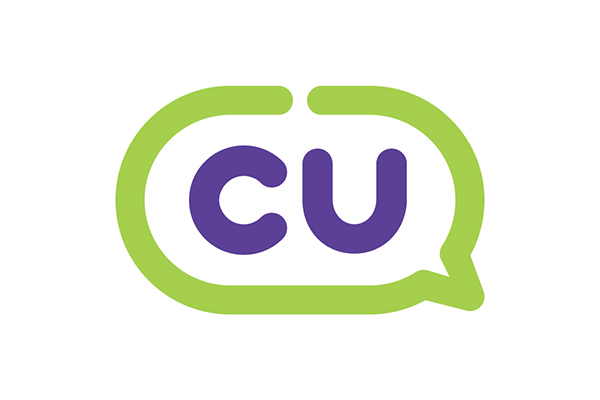
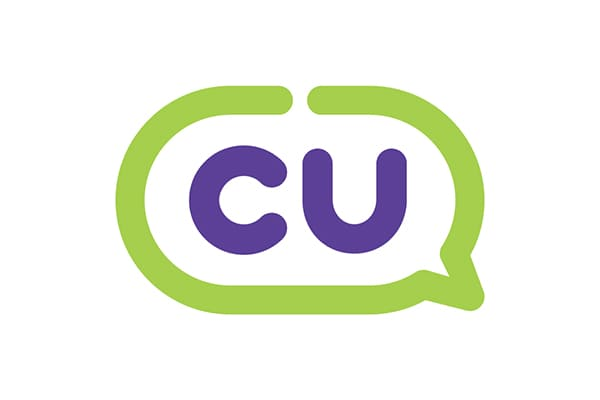
[공통] - 이미지 용량 줄이기 - 환전소 삭제
[서브페이지]
- 데이터 : 주소 삭제 / 대표메뉴,호텔과의 거리 추가
- 식당 10%할인 표기 및 우선순위 정렬
- 이미지 없는경우 디폴트 이미지 대체

diff --git a/src/data.js b/src/data.js
@@ -13,7 +13,6 @@ export const pageData = [
         title: '온센',
         openingHours: '11:00-20:30',
         openingHoursMemo: '무휴',
-        address: '인천 중구 영종대로911',
         img: '',
         menu:"텐동",
         googleMaps: '',
@@ -22,6 +21,23 @@ export const pageData = [
         room:"",
         distance:"0m",
         memo:"",
+        sale:"",
+      },
+      {
+        filter:"restaurant",
+        id:0,
+        title: 'Test',
+        openingHours: '11:00-20:30',
+        openingHoursMemo: '무휴',
+        img: '',
+        menu:"대표음식",
+        googleMaps: '',
+        contact:"032-214-5100",
+        reservation:"",
+        room:"",
+        distance:"0m",
+        memo:"",
+        sale:"10%",
       },
       // 카페
       {
@@ -30,15 +46,15 @@ export const pageData = [
         title: '카페평상인',
         openingHours: '10:00-22:00',
         openingHoursMemo: '무휴',
-        address: '인천 중구 영종진광장로 39 오션테라스 카페 평상인',
         img: '',
-        menu:"아메리카노 5,500",
+        menu:"아메리카노",
         googleMaps: '',
         contact:"0507-1425-0079",
         reservation:"",
         room:"",
         distance:"2.9km",
         memo:"",
+        sale:"",
       },
       // 조식
       {
@@ -47,7 +63,6 @@ export const pageData = [
         title: '파리바게트영종현대',
         openingHours: '10:00-22:00',
         openingHoursMemo: '',
-        address: '인천 중구 하늘별빛로65번길 7-4(중산동) 현대프라자',
         img: '',
         menu:"",
         googleMaps: '',
@@ -56,6 +71,7 @@ export const pageData = [
         room:"",
         distance:"390m",
         memo:"",
+        sale:"",
       },
 
     ]
@@ -72,27 +88,24 @@ export const pageData = [
         title: 'CU영종블루오션점',
         openingHours: '01:00-24:00',
         openingHoursMemo: '',
-        address: '인천 중구 영종대로 911',
         img: '/img/convenience_store/cu.jpg',
-        googleMaps: '',
+        googleMaps: 'https://www.google.co.kr/maps/place/%EC%9D%B8%EC%B2%9C%EA%B4%91%EC%97%AD%EC%8B%9C+%EC%A4%91%EA%B5%AC+%EC%98%81%EC%A2%85%EB%8C%80%EB%A1%9C+911/data=!4m6!3m5!1s0x357b83ab00a398dd:0x7e57b063c649df02!8m2!3d37.4873526!4d126.5635199!16s%2Fg%2F11jz7sdtgm?entry=ttu',
       },
       {
           id:1,
           title: '미니스톱 영종웰메이드점',
           openingHours: '01:00-24:00',
           openingHoursMemo: '',
-          address: '인천 중구 하늘별빛로65번길 7-11',
           img: '/img/convenience_store/ministop.jpg',
-          googleMaps: '',
+          googleMaps: 'https://www.google.co.kr/maps/place/%EC%9D%B8%EC%B2%9C%EA%B4%91%EC%97%AD%EC%8B%9C+%EC%A4%91%EA%B5%AC+%ED%95%98%EB%8A%98%EB%B3%84%EB%B9%9B%EB%A1%9C65%EB%B2%88%EA%B8%B8+7-11/data=!3m1!4b1!4m6!3m5!1s0x357b83ab6c546a73:0xc8593b9c83c7fa53!8m2!3d37.4881418!4d126.5643488!16s%2Fg%2F11tjfgpnx8?entry=ttu',
       },
       {
           id:2,
           title: 'GS25 영종리베라점',
           openingHours: '01:00-24:00',
           openingHoursMemo: '',
-          address: '인천 중구 영종대로 881 1층 103호',
           img: '/img/convenience_store/gs.jpg',
-          googleMaps: '',
+          googleMaps: 'https://www.google.co.kr/maps/place/GS25%EC%98%81%EC%A2%85%EB%A6%AC%EB%B2%A0%EB%9D%BC%EC%A0%90/data=!3m1!4b1!4m6!3m5!1s0x357b8324efa557a3:0xf5e239135dc35957!8m2!3d37.4851796!4d126.5615557!16s%2Fg%2F11j8_tqcgd?entry=ttu',
       }
     ]
   },
@@ -108,7 +121,7 @@ export const pageData = [
           title: '하늘365약국',
           openingHours: '09:00-22:00',
           openingHoursMemo: '일요일 영업',
-          address: '인천 중구 하늘달빛로 84 1층 105호',
+
           img: '../img/pharmacy/p_0.jpg',
           googleMaps: 'https://www.google.co.kr/maps/place/%EC%9D%B8%EC%B2%9C%EA%B4%91%EC%97%AD%EC%8B%9C+%EC%A4%91%EA%B5%AC+%ED%95%98%EB%8A%98%EB%8B%AC%EB%B9%9B%EB%A1%9C+84/data=!3m1!4b1!4m6!3m5!1s0x357b83a9d542d405:0xb1ff593e13f04cfe!8m2!3d37.4867592!4d126.5581627!16s%2Fg%2F11sb7frj19?entry=ttu',
       },
@@ -117,7 +130,7 @@ export const pageData = [
           title: '미소약국',
           openingHours: '09:00-22:00',
           openingHoursMemo: '일요일 유동적 휴무',
-          address: '인천 중구 하늘별빛로65번길 11 해솔프라자 101호 미소약국',
+
           img: '../img/pharmacy/p_1.jpg',
           googleMaps: 'https://www.google.co.kr/maps/place/%ED%95%B4%EC%86%94%ED%94%84%EB%9D%BC%EC%9E%90/data=!3m1!4b1!4m6!3m5!1s0x357b976f38f7c457:0xcf8cd451e2546b98!8m2!3d37.4884843!4d126.5634308!16s%2Fg%2F11h58f9xh2?entry=ttu',
       },
@@ -126,7 +139,7 @@ export const pageData = [
           title: '영종올리브약국',
           openingHours: '09:00-20:00',
           openingHoursMemo: '일요일 휴무',
-          address: '인천 중구 하늘별빛로65번길 7-9',
+
           img: '../img/pharmacy/p_2.jpg',
           googleMaps: 'https://www.google.co.kr/maps/place/%EC%9D%B8%EC%B2%9C%EA%B4%91%EC%97%AD%EC%8B%9C+%EC%A4%91%EA%B5%AC+%ED%95%98%EB%8A%98%EB%B3%84%EB%B9%9B%EB%A1%9C65%EB%B2%88%EA%B8%B8+7-9/data=!3m1!4b1!4m6!3m5!1s0x357b83ab662580d1:0x70f71a9083524932!8m2!3d37.4884886!4d126.5646288!16s%2Fg%2F11sb7d91m5?entry=ttu',
       }
@@ -160,18 +173,24 @@ export const pageData = [
         title: '버블맨24 인천영종도점',
         openingHours: '00:00-24:00',
         openingHoursMemo: '',
-        address: '인천 중구 자연대로 28 101호 셀프빨래방',
         img: '/img/coin_laundry/l_0.jpg',
-        googleMaps: '',
+        googleMaps: 'https://www.google.co.kr/maps/place/%EC%9D%B8%EC%B2%9C%EA%B4%91%EC%97%AD%EC%8B%9C+%EC%A4%91%EA%B5%AC+%EC%9E%90%EC%97%B0%EB%8C%80%EB%A1%9C+28+101%ED%98%B8/data=!3m1!4b1!4m5!3m4!1s0x357b83abd14c779f:0x817c82e110abcb4f!8m2!3d37.4883172!4d126.5611399?entry=ttu',
       },
       {
           id:1,
           title: '화이트365 영종도점',
           openingHours: '00:00-24:00',
           openingHoursMemo: '',
-          address: '인천 중구 자연대로 37 스카이가든 1층 107호',
           img: '/img/coin_laundry/l_1.jpg',
-          googleMaps: '',
+          googleMaps: 'https://www.google.co.kr/maps/search/%EC%9D%B8%EC%B2%9C+%EC%A4%91%EA%B5%AC+%EC%9E%90%EC%97%B0%EB%8C%80%EB%A1%9C+37+%EC%8A%A4%EC%B9%B4%EC%9D%B4%EA%B0%80%EB%93%A0+1%EC%B8%B5+107%ED%98%B8/data=!3m1!4b1?entry=ttu',
+      },
+      {
+          id:1,
+          title: '크린토피아 코인워시365 인천영종스카이점',
+          openingHours: '00:00-24:00',
+          openingHoursMemo: '',
+          img: '',
+          googleMaps: 'https://www.google.co.kr/maps/place/%EC%9D%B8%EC%B2%9C%EA%B4%91%EC%97%AD%EC%8B%9C+%EC%A4%91%EA%B5%AC+%ED%95%98%EB%8A%98%EC%A4%91%EC%95%99%EB%A1%9C195%EB%B2%88%EA%B8%B8+14/data=!3m1!4b1!4m6!3m5!1s0x357b83abe0202a83:0xf058daee11fa80ba!8m2!3d37.4893272!4d126.5607988!16s%2Fg%2F11sb78dp_b?entry=ttu',
       },
     ]
   },  

diff --git a/src/layout/ListItem.jsx b/src/layout/ListItem.jsx
@@ -3,7 +3,28 @@ function ListItem(props){
     return(
         <div className="list_item row" data-filter={item.filter}>
             <div className="left">
-                <h4 className="title">{item.title}</h4>
+                <div className='flex'>
+                    <h4 className="title">{item.title}</h4>
+                    {
+                        item.sale ?
+                        <p className="sale">{item.sale} OFF</p>
+                        : null
+                    }
+                </div>
+                {
+                    item.menu ?
+                        <div className="menu flex">
+                            <img
+                                className="card_icon"
+                                src="/img/icons/menu_icon.png"
+                                alt="메뉴 아이콘"
+                                />
+                            <p className="text">
+                                {item.menu}
+                            </p>
+                        </div>
+                    : null
+                }     
                 <div className="opening_hour flex">
                     <img
                         className="card_icon"
@@ -28,17 +49,7 @@ function ListItem(props){
                             </p>
                         </div>
                     : null
-                }
-                <div className="address flex">
-                    <img
-                        className="card_icon"
-                        src="/img/icons/location_icon.png"
-                        alt="주소 아이콘"
-                        />
-                    <p className="text">
-                        {item.address}
-                    </p>
-                </div>
+                }                
                 {
                     item.contact ?
                         <div className="contact flex">
@@ -53,6 +64,16 @@ function ListItem(props){
                         </div>
                     : null
                 }
+                {/* <div className="address flex">
+                    <img
+                        className="card_icon"
+                        src="/img/icons/location_icon.png"
+                        alt="주소 아이콘"
+                        />
+                    <p className="text">
+                        {item.address}
+                    </p>
+                </div> */}
                 <a className="google_maps_btn" target="_blank" href={item.googleMaps}>
                     <img
                         src="/img/icons/google_maps_icon_circle.png"
@@ -69,7 +90,6 @@ function ListItem(props){
                     : <img src="/img/icons/no_img.png" alt="no img" /> 
                 }
                 </div>
-                <div className="main_menu"> {item.menu ? item.menu : ""}</div>
             </div>
         </div>      
     )

diff --git a/src/routes/SubPage.jsx b/src/routes/SubPage.jsx
@@ -3,7 +3,16 @@ import SubHeader from "../layout/SubHeader"
 
 function SubPage(props) {
     const item = props.item;
-    
+    if(item.url === 'restaurant'){
+        item.data.sort((a, b) => {
+            if (a.sale && !b.sale) {
+              return -1;
+            } else if (!a.sale && b.sale) {
+              return 1; 
+            }
+            return 0;
+        });
+    }
     function handleFilter(e){
         const filterBtn = document.querySelectorAll('.filter_btn');
         const listItem = document.querySelectorAll('.list_item');
@@ -44,7 +53,10 @@ function SubPage(props) {
             <div className="content_box list_item_box">
 
             {
-                item.url === 'restaurant' ? <TabMenu filterFunc={handleFilter}></TabMenu> : null
+                item.url === 'restaurant' ? <RestaurantTabMenu filterFunc={handleFilter}></RestaurantTabMenu> : null
+            }
+            {
+                item.url === 'hospital' ? <HospitalTabMenu filterFunc={handleFilter}></HospitalTabMenu> : null
             }
             {
                 item.data.map((item, idx) => (
@@ -58,13 +70,23 @@ function SubPage(props) {
         </>
     );
 }
-function TabMenu(props){
+function RestaurantTabMenu(props){
     return(
         <div className="filter_btn_box">
             <div data-filter="all" className="filter_btn active" onClick={props.filterFunc}>전체</div>
             <div data-filter="restaurant" className="filter_btn" onClick={props.filterFunc}>식당</div>
             <div data-filter="cafe" className="filter_btn" onClick={props.filterFunc}>카페</div>
             <div data-filter="breakfast" className="filter_btn" onClick={props.filterFunc}>조식</div>
+        </div>
+    )
+}
+function HospitalTabMenu(props){
+    return(
+        <div className="filter_btn_box">
+            <div data-filter="all" className="filter_btn active" onClick={props.filterFunc}>전체</div>
+            <div data-filter="internal_medicine" className="filter_btn" onClick={props.filterFunc}>내과</div>
+            <div data-filter="dentist" className="filter_btn" onClick={props.filterFunc}>치과</div>
+            <div data-filter="Ophthalmology" className="filter_btn" onClick={props.filterFunc}>안과</div>
         </div>
     )
 }

diff --git a/public/assets/sub_page.css b/public/assets/sub_page.css
@@ -53,13 +53,48 @@
 .list_item .title{
     font-size:26px;
     color: #2F6633;
-    margin-bottom: 16px;
+    margin-bottom: 8px;
 }
 .list_item[data-filter="cafe"] .title{
     color: #679600
 }
 .list_item[data-filter="breakfast"] .title{
     color: #dd7e00
+}
+.list_item .sale{
+    font-size: 14px;
+    margin-bottom: 8px;
+    background-color: #00968b;
+    color: white;
+    padding: 6px 10px;
+    margin-left: 10px;
+    border-radius: 5px;
+    position: relative;
+    font-weight: 600;
+}
+.list_item .sale::before{
+    content: "";
+    display: block;
+    position: absolute;
+    width: 8px;
+    height: 8px;
+    border-radius: 8px;
+    background-color: white;
+    top: 50%;
+    left: -5px;
+    transform: translateY(-50%);
+}
+.list_item .sale::after{
+    content: "";
+    display: block;
+    position: absolute;
+    width: 8px;
+    height: 8px;
+    border-radius: 8px;
+    background-color: white;
+    top: 50%;
+    right: -5px;
+    transform: translateY(-50%);
 }
 .list_item .card_icon{
     width: 32px;
@@ -117,9 +152,9 @@
 .filter_btn_box .filter_btn{
     padding: 0 18px;
     border: 1px solid #2F6633;
-    height: 32px;
-    line-height: 30px;
-    border-radius: 32px;
+    height: 36px;
+    line-height: 36px;
+    border-radius: 36px;
     font-weight: 500;
 }
 .filter_btn_box .filter_btn.active{

diff --git a/src/App.jsx b/src/App.jsx
@@ -32,6 +32,15 @@ function App() {
     };
   }, []);
 
+  // pageData.find(item => item.url === "restaurant").data.sort((a, b) => {
+  //     if (a.sale && !b.sale) {
+  //       return -1;
+  //     } else if (!a.sale && b.sale) {
+  //       return 1; 
+  //     }
+  //     return 0;
+  // });
+
   return (
     <div className="App">
 			<div className='container'>

diff --git a/public/assets/main.css b/public/assets/main.css
@@ -53,7 +53,7 @@
     border-radius: 56px;
     margin: 36px auto 0;
     font-size: 20px;
-    transition: all 0.3s ease-in-out;
+    transition: transform 0.3s ease-in-out;
     transform: translateY(5px);
 }
 .go_to_hotel_btn:hover{
